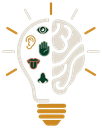
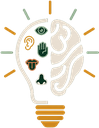
Site update 2026-08-03 23:07:40.33

diff --git a/src/components/layout/Navbar.tsx b/src/components/layout/Navbar.tsx
@@ -24,7 +24,6 @@ export function Navbar() {
     return () => { document.body.style.overflow = ""; };
   }, [mobileMenuOpen]);
 
-  const isSolidNavy = isScrolled || mobileMenuOpen;
 
   return (
     <>
@@ -74,42 +73,31 @@ export function Navbar() {
       {/* ── Main Header ───────────────────────────────────────────── */}
       <header
         className={cn(
-          "fixed left-0 right-0 z-50 transition-all duration-300 border-b",
-          "lg:top-8 top-0",
-          isSolidNavy
-            ? "bg-primary text-white border-primary/20 shadow-lg"
-            : "bg-white text-primary border-border/40"
+          "fixed left-0 right-0 z-50 transition-shadow duration-300 border-b",
+          "lg:top-8 top-0 bg-primary text-white border-white/10",
+          isScrolled && "shadow-lg"
         )}
       >
         <div className="max-w-7xl mx-auto px-4 sm:px-6 lg:px-8">
-          <div className="flex justify-between items-center h-20">
+          <div className="flex justify-between items-center h-28 lg:h-32">
 
-            {/* Logo */}
-            <Link href="/" className="flex items-center gap-3 group" aria-label="FSRC — return to homepage">
+            {/* Logo — full lockup, sized so the wordmark stays legible */}
+            <Link
+              href="/"
+              className="flex items-center shrink-0 rounded focus-visible:outline-none focus-visible:ring-2 focus-visible:ring-accent focus-visible:ring-offset-2 focus-visible:ring-offset-primary"
+              aria-label={`${SITE_META.legalName} — return to homepage`}
+            >
               <img
-                src={`${import.meta.env.BASE_URL}images/${
-                  isSolidNavy ? "fsrc-mark-light-128.png" : "fsrc-mark-128.png"
-                }`}
-                alt=""
-                aria-hidden="true"
-                width={102}
-                height={128}
-                className="h-14 w-auto shrink-0 transition-opacity duration-300"
+                src={`${import.meta.env.BASE_URL}images/fsrc-logo-light-640.png`}
+                alt={SITE_META.legalName}
+                width={640}
+                height={316}
+                className="h-20 lg:h-24 w-auto"
               />
-              <span className="font-serif text-2xl font-bold tracking-wider">
-                {SITE_META.name}
-              </span>
-              <span
-                className={cn("hidden md:block w-px h-6 mx-3", isSolidNavy ? "bg-white/20" : "bg-primary/20")}
-                aria-hidden="true"
-              />
-              <span className="hidden md:block text-xs font-medium uppercase tracking-[0.15em] text-accent">
-                {SITE_META.tagline}
-              </span>
             </Link>
 
             {/* Desktop Nav */}
-            <nav aria-label="Primary navigation" className="hidden lg:flex items-center space-x-8">
+            <nav aria-label="Primary navigation" className="hidden lg:flex items-center space-x-6 xl:space-x-8">
               {NAV_LINKS.map((link) => {
                 const isActive = location === link.href;
                 return (
@@ -119,11 +107,7 @@ export function Navbar() {
                     aria-current={isActive ? "page" : undefined}
                     className={cn(
                       "text-sm font-medium transition-colors hover:text-accent relative py-2 focus-visible:outline-none focus-visible:ring-2 focus-visible:ring-accent focus-visible:ring-offset-1 rounded",
-                      isActive
-                        ? "text-accent"
-                        : isSolidNavy
-                        ? "text-white/80"
-                        : "text-primary/80"
+                      isActive ? "text-accent" : "text-white/80 hover:text-white"
                     )}
                   >
                     {link.label}
@@ -162,9 +146,9 @@ export function Navbar() {
           aria-hidden={!mobileMenuOpen}
           className={cn(
             "lg:hidden fixed inset-x-0 bg-primary border-t border-white/10 transition-all duration-300 ease-in-out overflow-hidden shadow-xl",
-            "top-20",
+            "top-28",
             mobileMenuOpen
-              ? "max-h-[calc(100vh-5rem)] opacity-100 pointer-events-auto"
+              ? "max-h-[calc(100vh-7rem)] opacity-100 pointer-events-auto"
               : "max-h-0 opacity-0 pointer-events-none"
           )}
         >

diff --git a/src/index.css b/src/index.css
@@ -37,23 +37,23 @@
 :root {
   /*
    * FSRC corporate identity — derived from the Five Senses lightbulb logo:
-   * Forest Green #04472B · Gold #CC8B22 · Cream #F4EFE9
+   * Forest Green #093421 · Gold #CF881E · Cream #F4EFE9
    * Terracotta #BD7058 · Sage #668165 · Ink #242425
    */
 
   --background: 0 0% 100%;
   --foreground: 240 2% 14%;
 
-  --primary: 154 89% 15%;
+  --primary: 153 70% 12%;
   --primary-foreground: 0 0% 100%;
 
   --secondary: 33 33% 94%;
-  --secondary-foreground: 154 89% 15%;
+  --secondary-foreground: 153 70% 12%;
 
   --muted: 33 33% 94%;
   --muted-foreground: 30 5% 38%;
 
-  --accent: 37 71% 47%;
+  --accent: 36 75% 46%;
   --accent-foreground: 0 0% 100%;
 
   --destructive: 14 55% 42%;
@@ -61,7 +61,7 @@
 
   --border: 33 20% 88%;
   --input: 33 20% 88%;
-  --ring: 37 71% 47%;
+  --ring: 36 75% 46%;
 
   --card: 0 0% 100%;
   --card-foreground: 240 2% 14%;

diff --git a/src/components/layout/Footer.tsx b/src/components/layout/Footer.tsx
@@ -16,11 +16,11 @@ export function Footer() {
           <div className="md:col-span-4 lg:col-span-4">
             <div className="mb-6">
               <img
-                src={`${import.meta.env.BASE_URL}images/fsrc-lockup-light-640.png`}
-                alt={`${SITE_META.legalName} — ${SITE_META.tagline}`}
+                src={`${import.meta.env.BASE_URL}images/fsrc-logo-light-640.png`}
+                alt={SITE_META.legalName}
                 width={640}
-                height={275}
-                className="w-full max-w-[260px] h-auto mb-5"
+                height={316}
+                className="w-full max-w-[300px] h-auto mb-5"
               />
               <div className="w-10 h-px bg-accent" aria-hidden="true" />
             </div>

diff --git a/src/components/layout/PageHero.tsx b/src/components/layout/PageHero.tsx
@@ -22,7 +22,7 @@ export function PageHero({ title, description, className }: PageHeroProps) {
       <div
         className="absolute inset-0 z-0 opacity-[0.025]"
         style={{
-          backgroundImage: `linear-gradient(to right, #CC8B22 1px, transparent 1px), linear-gradient(to bottom, #CC8B22 1px, transparent 1px)`,
+          backgroundImage: `linear-gradient(to right, #CF881E 1px, transparent 1px), linear-gradient(to bottom, #CF881E 1px, transparent 1px)`,
           backgroundSize: "80px 80px",
         }}
         aria-hidden="true"

diff --git a/src/pages/Home.tsx b/src/pages/Home.tsx
@@ -79,7 +79,7 @@ export default function Home() {
         <div
           className="absolute inset-0 z-0 opacity-[0.03]"
           style={{
-            backgroundImage: `linear-gradient(to right, #CC8B22 1px, transparent 1px), linear-gradient(to bottom, #CC8B22 1px, transparent 1px)`,
+            backgroundImage: `linear-gradient(to right, #CF881E 1px, transparent 1px), linear-gradient(to bottom, #CF881E 1px, transparent 1px)`,
             backgroundSize: "80px 80px",
           }}
           aria-hidden="true"

diff --git a/src/App.tsx b/src/App.tsx
@@ -23,7 +23,7 @@ function Router() {
   return (
     <div className="flex flex-col min-h-screen">
       <Navbar />
-      <main id="main-content" className="flex-grow pt-[80px] lg:pt-[112px]">
+      <main id="main-content" className="flex-grow pt-[112px] lg:pt-[160px]">
         <Switch>
           <Route path="/" component={Home} />
           <Route path="/about" component={About} />

diff --git a/src/components/ui/ReportCover.tsx b/src/components/ui/ReportCover.tsx
@@ -83,7 +83,7 @@ export function ReportCover({
         sizeStyles.root,
         className
       )}
-      style={{ background: "#04472B" }}
+      style={{ background: "#093421" }}
     >
       {/* ── Decorative geometry ───────────────────────── */}
       {/* Large faint circle top-right */}

diff --git a/index.html b/index.html
@@ -3,7 +3,7 @@
   <head>
     <meta charset="UTF-8" />
     <meta name="viewport" content="width=device-width, initial-scale=1.0" />
-    <meta name="theme-color" content="#04472B" />
+    <meta name="theme-color" content="#093421" />
 
     <!-- Primary SEO -->
     <title>FSRC — Evidence-Based Policy Intelligence</title>

diff --git a/REBRAND_AND_STANDALONE_REPORT.md b/REBRAND_AND_STANDALONE_REPORT.md
@@ -285,3 +285,52 @@ deletions automatically. Delete that folder yourself whenever you're happy.
 **To deploy**: double-click `deploy_fsrc.bat`. After the build, hard-refresh fsrc.pro
 (**Ctrl+F5**) — the old favicon and OG image are cached; ask LinkedIn/X to re-scrape by pasting
 the URL into https://www.opengraph.xyz.
+
+## Primary-logo addendum (August 4, 2026) — full lockup in the header and footer
+
+You supplied `new_FSRC_Logo_03.png` (bulb + gold rule + **"Five Senses Research Consultants"**
+set in a serif, cream on deep green) and asked for it to be used *in full* on the home page in
+place of the FSRC acronym, repeated in the footer, with enough room that the words stay legible.
+
+**Measurements that drove the layout.** The lockup is 2.03:1 with the name on four lines; each
+line is ~17% of the logo's height and the cap height ~11%. So a 96px-tall logo yields a cap
+height of ~10.8px — the same as 16px body text. That set the sizing: logo `h-20 lg:h-24`
+(80 / 96px) inside a header of `h-28 lg:h-32` (112 / 128px), up from the old 80px bar.
+
+| Change | Detail |
+|---|---|
+| Navbar | FSRC acronym, divider and tagline **removed**; replaced by the full lockup |
+| Header height | `h-20` → `h-28 lg:h-32`; `<main>` padding `pt-[80px] lg:pt-[112px]` → `pt-[112px] lg:pt-[160px]`; mobile drawer `top-20` → `top-28` |
+| Header colour | now **always solid green** (was white at top, green on scroll) |
+| Nav spacing | `space-x-8` → `space-x-6 xl:space-x-8` so the wider logo clears the links at 1024px |
+| Footer | brand block now the same lockup at `max-w-[300px]` |
+| Palette | `--primary` → **#093421** (`153 70% 12%`) and `--accent` → **#CF881E** (`36 75% 46%`), sampled from this master so every green surface matches the logo's own field |
+| Icons + OG | favicon, apple-touch icon and the 1200×630 card re-cut from this master |
+
+**Why the header is always green.** The lockup is cream-and-gold on transparent — the only
+colourway you supplied. On the old white top-of-page header it would have been invisible, and
+recolouring your artwork to invent a dark-on-light variant seemed worse than changing the bar.
+Solid green also means the header flows straight into the dark hero. **If you'd rather keep a
+white header**, say so and I'll produce a green-ink version of the lockup instead — it's a
+recolour of the same file, about ten minutes.
+
+**Verification** (headless Chromium, production build):
+
+| Check | Status | Observed |
+|---|---|---|
+| `npm run build` | ✅ | 2,113 modules, 0 errors |
+| Desktop 1440px | ✅ | all four words legible; logo clears the nav by a wide margin |
+| Desktop 1024px | ✅ | logo + six nav links fit on one row, no wrap or overlap |
+| Mobile 390px | ✅ | full lockup at 80px still legible beside the hamburger |
+| Mobile menu open | ✅ | drawer opens flush under the 112px bar — no gap, no overlap |
+| Scrolled state | ✅ | header keeps its shadow; no colour flip now that it is always green |
+| Inner page (Publications) | ✅ | PageHero sits correctly under the taller header |
+| Footer | ✅ | lockup at 300px — the name is the largest it has ever been |
+| Page errors | ✅ | none |
+
+Superseded assets (`fsrc-lockup*.png` — the older "FIVE SENSES / INSIGHT. INTELLIGENCE. IMPACT."
+lockup) moved to `C:\dev\fsrc-website\_old-logo-assets\`; the master PNG was copied into
+`newFive_Senses_Logo\` beside the others.
+
+**To deploy**: double-click `deploy_fsrc.bat`, then hard-refresh (**Ctrl+F5**) — favicon and OG
+image are cached.

diff --git a/README.md b/README.md
@@ -142,8 +142,8 @@ For the report cover component, any publication can be featured with:
 All brand colors are defined as CSS custom properties in **`src/index.css`** under `:root`:
 
 ```css
---primary: 154 89% 15%;      /* Forest Green #04472B (from logo) */
---accent: 37 71% 47%;        /* Gold #CC8B22 (from logo) */
+--primary: 153 70% 12%;      /* Forest Green #093421 — the logo's own field colour */
+--accent: 36 75% 46%;        /* Gold #CF881E (from logo) */
 --secondary: 33 33% 94%;     /* Cream #F4EFE9 (from logo) */
 --foreground: 240 2% 14%;    /* Ink #242425 */
 --destructive: 14 55% 42%;   /* Terracotta (deepened for contrast) */
@@ -173,19 +173,24 @@ Font assignments are in `src/index.css`:
 
 The official FSRC logo is integrated site-wide:
 
-- `public/images/fsrc-mark.png` — lightbulb/brain mark, dark strokes, for **light** backgrounds
-- `public/images/fsrc-mark-light.png` — same mark, cream strokes, for **dark green** backgrounds
-- `public/images/fsrc-mark-128.png` / `fsrc-mark-light-128.png` — navbar-sized (128px tall)
-- `public/images/fsrc-lockup.png` — full horizontal lockup (dark text) for light backgrounds
-- `public/images/fsrc-lockup-light.png` / `-640.png` — full lockup (light text) for dark backgrounds
+- `public/images/fsrc-logo-light.png` / `-640.png` — **the primary logo**: bulb + gold rule +
+  "Five Senses Research Consultants". Cream/gold on transparent, for **dark green** backgrounds.
+  Used in the navbar and the footer.
+- `public/images/fsrc-mark-light.png` / `-128.png` — bulb only, cut from the same master, for
+  dark backgrounds (favicon, apple-touch icon, any tight space)
+- `public/images/fsrc-mark.png` / `-128.png` — bulb only, dark strokes, for **light** backgrounds
 - `public/favicon.svg` + `public/apple-touch-icon.png` — icons generated from the emblem
 - `public/opengraph.jpg` — 1200×630 social sharing card built from the logo
 
-The navbar renders the mark beside the FSRC wordmark and **swaps to the light variant**
-when the header turns solid green on scroll (`src/components/layout/Navbar.tsx`). The footer
-uses the full horizontal lockup (`Footer.tsx`). Source files live in
-`C:\dev\fsrc-website\newFive_Senses_Logo\` — `05` (mark, light bg), `03` (mark, dark bg),
-`01` (lockup, light bg), `06` (lockup, dark bg).
+The **header is always solid `--primary` green** — the logo is a cream-on-transparent lockup,
+so a white bar would render it invisible. The bar is `h-28 lg:h-32` (112 / 128px) and the logo
+`h-20 lg:h-24` (80 / 96px), which is the smallest size that keeps all four words of the name as
+legible as body copy. If you change either, change the other **and** the matching
+`pt-[112px] lg:pt-[160px]` on `<main>` in `App.tsx` (desktop = 32px utility bar + 128px header)
+plus `top-28` on the mobile drawer in `Navbar.tsx`.
+
+Master artwork: `C:\dev\fsrc-website\newFive_Senses_Logo\new_FSRC_Logo_03.png` — every asset
+above (including the favicon and OG card) is cut from that one file.
 
 ### OG / Social sharing image
 
